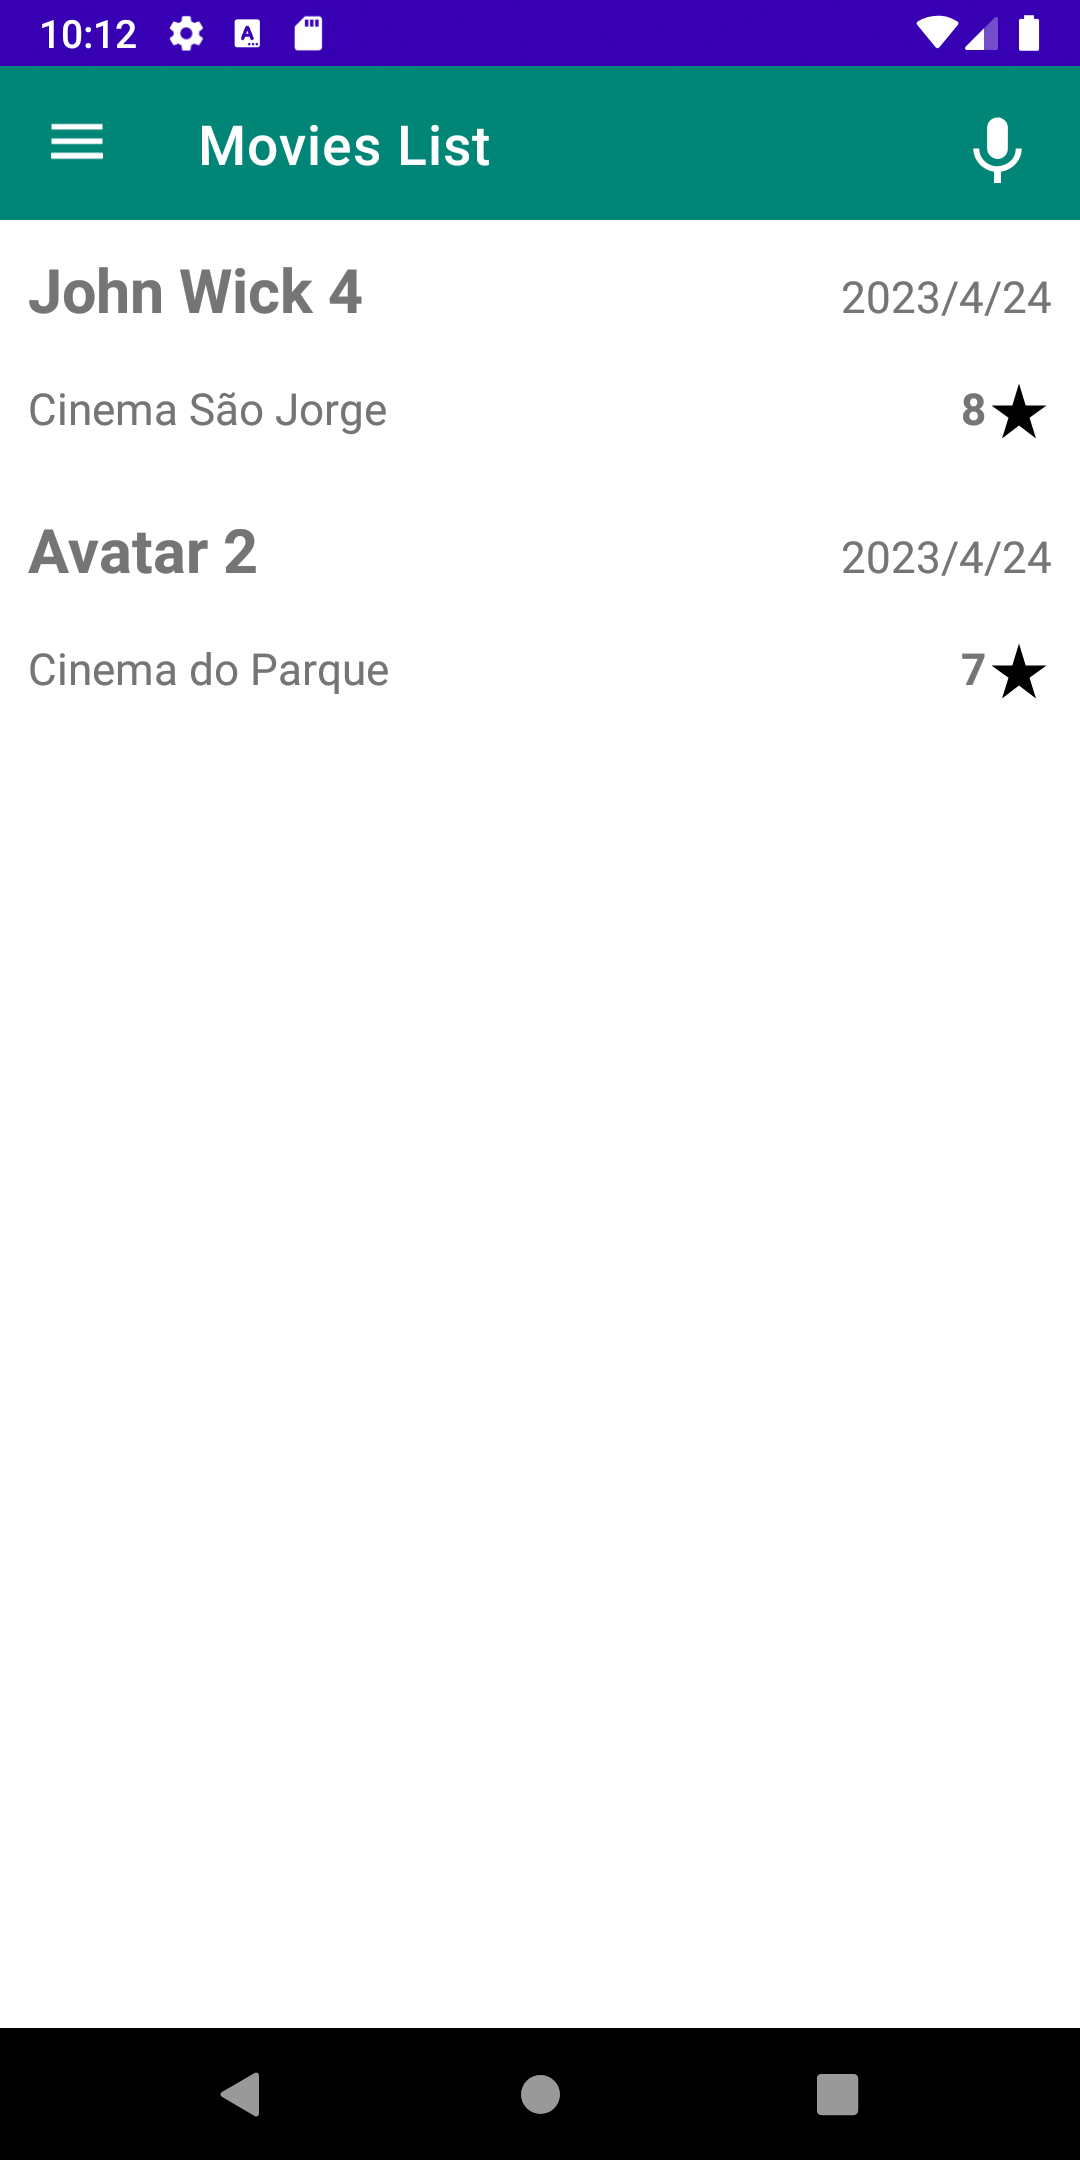
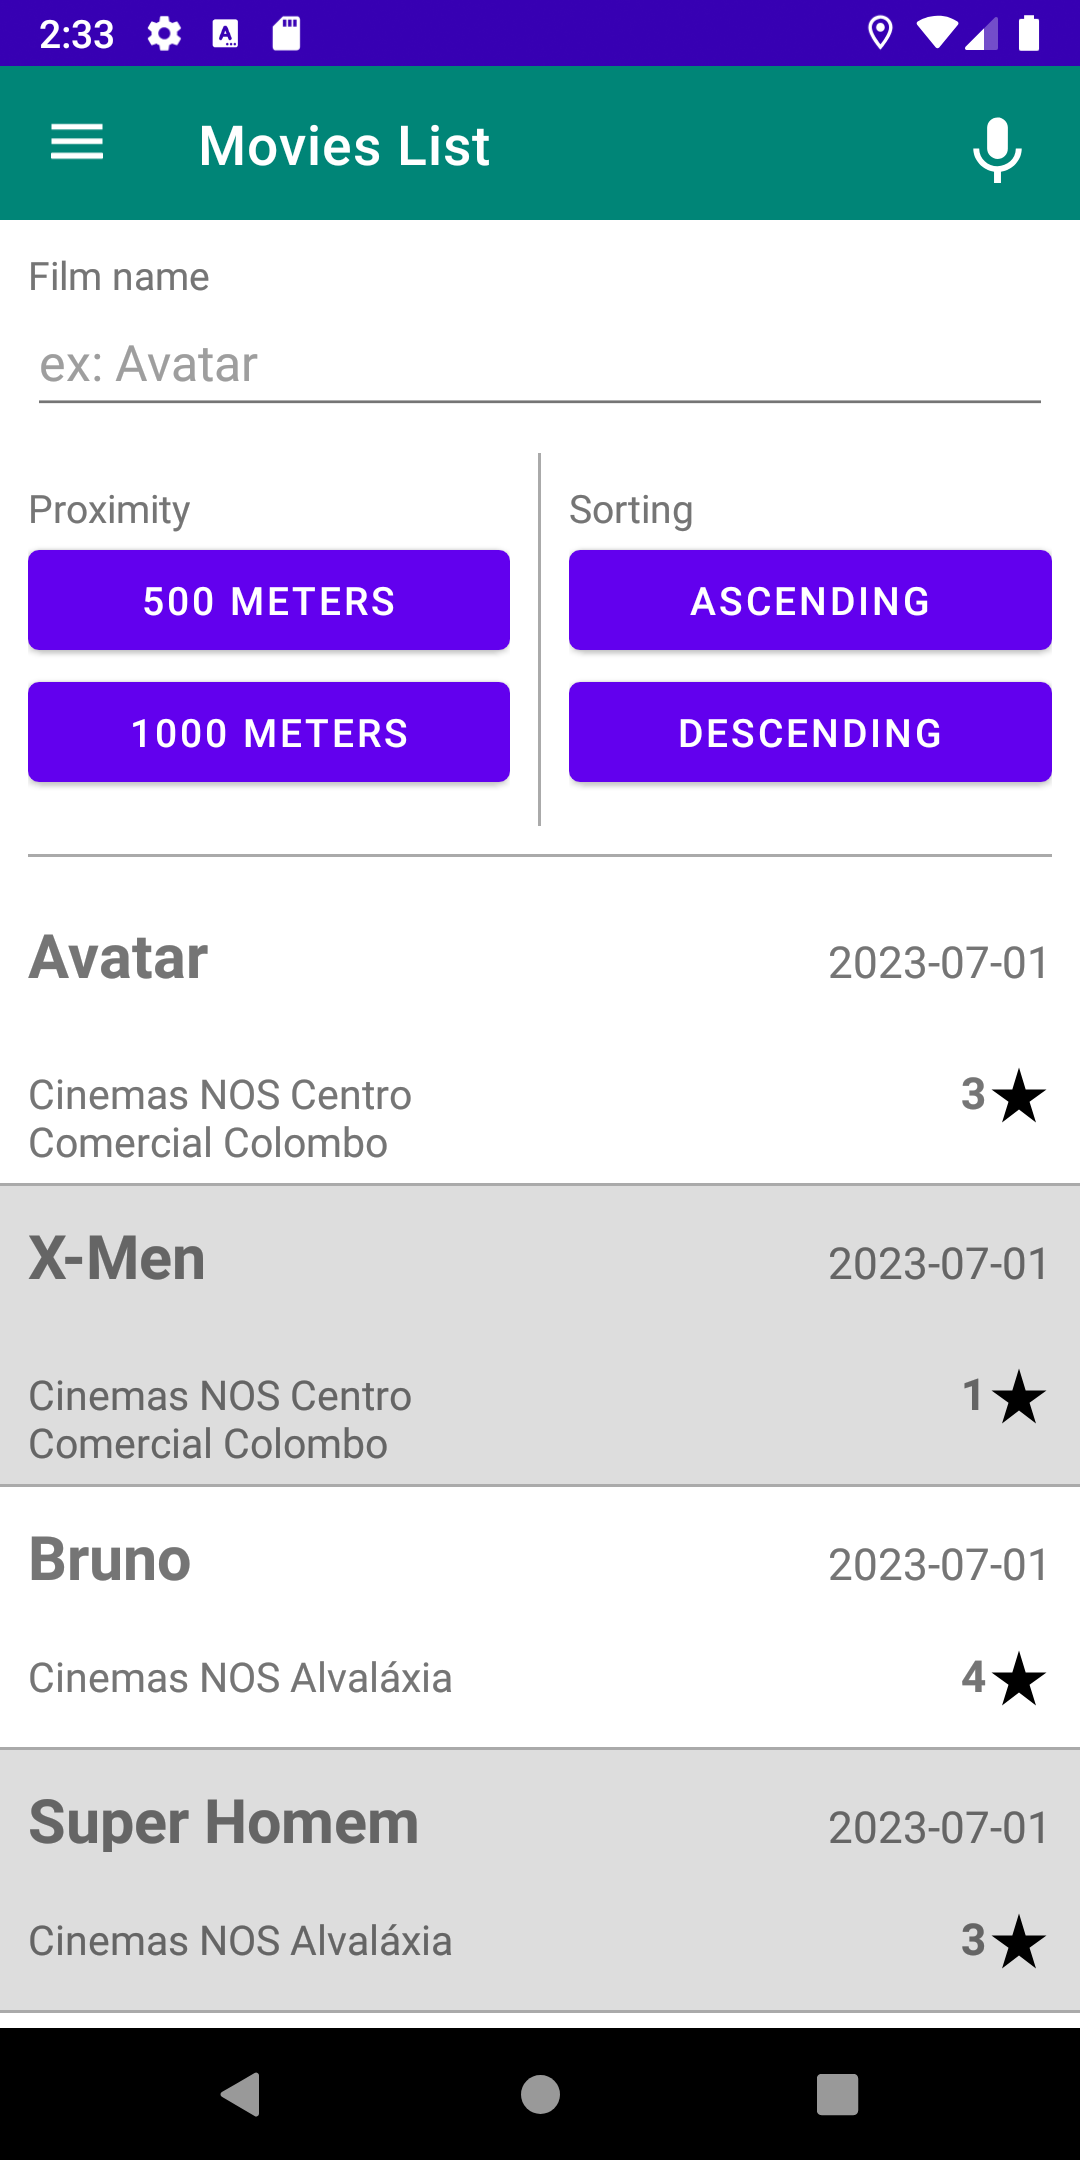
commiy 02/07

diff --git a/README.md b/README.md
@@ -2,19 +2,22 @@
 
 Nome: Bruno Mateus <br />
 Número: a22102554 <br />
-Nome: Diogo Moreira <br />
-Número: a22103941 <br />
+
+
+## Link video:
+  
 
 ## Ecrãs:
 
 ### Dashboard
-<img src="img/dashboard.png" height="50%" width="50%">
+-------------
+<img src="img/dashbord.png" height="50%" width="50%">
 
 ### Registo
 <img src="img/registoFilme1.png" height="50%" width="50%">
 <img src="img/registoFilme2.png" height="50%" width="50%">
+<img src="img/registoFilme2.png" height="50%" width="50%">
 <img src="img/erroCamposObg.png" height="50%" width="50%">
-<img src="img/autoCompleteFilme.png" height="50%" width="50%">
 <img src="img/autoCompleteCinema.png" height="50%" width="50%">
 <img src="img/popupData.png" height="50%" width="50%">
 <img src="img/popupData.png" height="50%" width="50%">
@@ -31,104 +34,112 @@ Número: a22103941 <br />
 <img src="img/mapa.png" height="50%" width="50%">
 
 ### Pesquisa de voz
-<img src="img/voice.png" height="50%" width="50%">
+<img src="img/voice1.png" height="50%" width="50%">
+<img src="img/voice2.png" height="50%" width="50%">
 
-## Filmes hardcoded:
-John Wick 4 <br />
-Avatar 2 <br />
-Shazam <br />
-Homem-Aranha 3 <br />
+## Critérios
 
-| Critério                                           | Funcionalidades                                                                                                                                                                       |
-|----------------------------------------------------|---------------------------------------------------------------------------------------------------------------------------------------------------------------------------------------|
-| Dashboard                                          | Existe um ecrã dashboard que permite viualizar o numero de filmes já vistos e um top 5 dos filmes melhor classificados                                                                |
-| Apresentação dos filmes -Lista                     | Existe um ecrã onde é representado a lista dos Filmes visualizados                                                                                                                    |
-| Apresentação dos filmes - Lista - Rotação          | É possivel rodar o ecrá desse mesmo ecrã de lista, onde acrescenta as observações de cada filme                                                                                       |
-| Apresentação dos filmes - Mapa (imagem)            | Existe um ecrã dedicado ao Mapa, onde aparece uma imagem de um mapa dos cinemas de Lisboas                                                                                            |
-| Detalhe do filme (sem fotografias)                 | É possivel verificar o detalhe de cada filme na lista, ao selecionar o mesmo irá apresentar um ecrã "Detalhe" onde representa toda a informação solicitada em enunciado de cada filme |
-| Detalhe do filme (apenas a parte das fotografias)  | No Ecrã é tambem possivel visualizar as fotografias inseridas no registo                                                                                                              |
-| Pesquisa de filmes por voz                         | Existe um botão com um icon de um microfone na barra superior onde ao selecionar abre uma pop-up com uma contagem de 10segundos conforme solicitado em enunciado                      |
-| Registo de filmes (sem fotografias)                | Existe um ecrã para efectuar o registo de cada filme com todos os dados pedidos em enunciado                                                                                          |
-| Registo de filmes (apenas a parte das fotografias) | Nesse mesmo ecrã é possivel registar tambem as fotografias tiradas através da camera                                                                                                  |
-| Suporte multi-idioma                               | Existe tambem suporte de multi-idioma, para as linguagens: Portugues, Frances e Ingles                                                                                                |
-| Navegabilidade                                     | A navegação entre ecrãs é feita através de drawer                                                                                                                                     |
+### Parte I
+
+| Critério                                           | Funcionalidades                                                                                                                                                                                                                                                           |
+|----------------------------------------------------|---------------------------------------------------------------------------------------------------------------------------------------------------------------------------------------------------------------------------------------------------------------------------|
+| Dashboard                                          | Existe um ecrã dashboard que permite viualizar o numero de filmes já vistos e um top 5 dos filmes melhor classificados                                                                                                                                                    |
+| Apresentação dos filmes -Lista                     | Existe um ecrã onde é representado a lista dos Filmes visualizados                                                                                                                                                                                                        |
+| Apresentação dos filmes - Lista - Rotação          | É possivel rodar o ecrá desse mesmo ecrã de lista, onde acrescenta as observações de cada filme                                                                                                                                                                           |
+| Apresentação dos filmes - Mapa (imagem)            | Existe um ecrã dedicado ao Mapa, onde aparece uma imagem de um mapa dos cinemas de Lisboas                                                                                                                                                                                |
+| Detalhe do filme (sem fotografias)                 | É possivel verificar o detalhe de cada filme na lista, ao selecionar o mesmo irá apresentar um ecrã "Detalhe" onde representa toda a informação solicitada em enunciado de cada filme                                                                                     |
+| Detalhe do filme (apenas a parte das fotografias)  | No Ecrã é tambem possivel visualizar as fotografias inseridas no registo                                                                                                                                                                                                  |
+| Pesquisa de filmes por voz                         | Existe um botão com um icon de um microfone na barra superior onde ao selecionar abre uma pop-up com uma contagem de 10segundos conforme solicitado em enunciado                                                                                                          |
+| Registo de filmes (sem fotografias)                | Existe um ecrã para efectuar o registo de cada filme com todos os dados pedidos em enunciado                                                                                                                                                                              |
+| Registo de filmes (apenas a parte das fotografias) | Nesse mesmo ecrã é possivel registar tambem as fotografias tiradas através da camera                                                                                                                                                                                      |
+| Suporte multi-idioma                               | Existe tambem suporte de multi-idioma, para as linguagens: Portugues, Frances e Ingles                                                                                                                                                                                    |
+| Navegabilidade                                     | A navegação entre ecrãs é feita através de drawer                                                                                                                                                                                                                         |
+
+
+### Parte II + Recurso
+
+| Critério                                             | Funcionalidades                                                                                                                                                                                                                                                           |
+|------------------------------------------------------|---------------------------------------------------------------------------------------------------------------------------------------------------------------------------------------------------------------------------------------------------------------------------|
+| Regista Já                                           | É possivel ir para o ecrã de registo de uma avaliação apenas agitando o smartphone |
+| Registo de filmes                                    | É possivel registar uma avaliação de um filme caso exista acesso à internet |
+| Inserir corretamente na base de dados                | Os registos na base de dados são inseridos corretamente |
+| Validação e obtenção dos dados do filme via API      | Os dados dos filmes são obtidos via API e guardados na base de dados local |
+| Validação e obtenção dos dados do cinema via JSON    | Os dados dos cinemas são obtidos via JSON e guardados na base de dados local |
+| Utilização de geo-localização                        | No fragmento Mapa é utilizada a geolocalização |
+| Inserir fotografias na base de dados                 | As fotografias referentes à avaliação são guardadas na base de dados com id da avaliação |
+| Apresentação dos filmes -Lista                       | Os filmes são apresentados em forma de lista |
+| Apresentação dos filmes - Mapa                       | Os filmes são apresentados no mapa através de markers |
+| Filtros - Apresentação em Lista                      | É possivel filtrar os filmes por pesquisa do nome do filme ou até mesmo pela proximidade de 500 ou 1000 metros, ainda é possivel filtrar os filtros em conjunto com a ordenação |
+| Ordenação - Apresentação em Lista                    | É possivel ordenar os filmes pela ordem crescente ou decrescente e tambem é possivel combinar com os filtros |
+| Detalhe do filme (sem fotografias)                   | O filme é apresentado sem fotografias |
+| Detalhe do filme (apenas a parte das fotografias)    | O filme apresenta fotografias inseridas num recycler view |
+| Pesquisa de filmes por voz - Funcionalidade Avançada | É possível procurar um filme que tenha sido avaliado por voz |
+| Dashboard                                            | O ecrã dashboard que permite viualizar o numero de filmes já vistos e um top 5 dos filmes melhor classificados |
+| Funcionamento Offline - Funcionalidade Avançada      | A aplicação funciona de modo offline apenas para visualização de avaliações já inseridas |
+| Video                                                |  |
 
 ### Autoavaliação = 17
 
 ## Classes de Lógica de Negócio 
 
+#### Classe Avaliacao:
+- Atributos: <br />
+-- id - String <br />
+-- filme - Filme <br />
+-- cinema - Cinema <br />
+-- avaliacao - Int <br />
+-- dataVisualizacao - Long <br />
+-- fotos - List<File>? <br />
+-- observacoes - String <br />
+
 #### Classe Filme:
 - Atributos: <br />
+-- id - String <br />
 -- nome - String <br />
--- cinema - String <br />
--- avaliacao - Int <br />
--- dataVisualizacao - Calendar <br />
--- fotos - List<File> <br />
--- observacoes - String <br />
--- listImgGet - List<File> <br />
-- Métodos: <br />
--- listImgGet() : List<File> <br />
-
-#### Classe Filmes:
-- Atributos: <br />
--- listImg - mutableListOf<File> <br />
--- listImgGet - List <br />
--- history - mutableListOf<Filme> <br />
-- Métodos: <br />
--- listImgGet() : List<File> <br />
--- imagemSet(imgFile : File) <br />
--- imagensListClear() <br />
--- history() : List<Filme> <br />
--- historySet (nome:String, cinema:String, avaliacao:Int, data: Calendar, imgList: List<File>, obs:String):Int <br />
--- top5Filmes() : List<Filme> <br />
--- countFilmes() : Int <br />
+-- generoImbd - String <br />
+-- dataImbd - Long <br />
+-- avaliacaoImbd - String <br />
+-- imgImbd - String <br />
+-- sinopse - String? <br />
 
 #### Classe Cinema:
 - Atributos: <br />
--- cinemaName - String <br />
-
-#### Classe Cinemas:
-- Atributos: <br />
--- cinema1 - Cinema <br />
--- cinema2 - Cinema <br />
--- cinema3 - Cinema <br />
--- cinema4 - Cinema <br />
--- cinema5 - Cinema <br />
--- cinema6 - Cinema <br />
--- cinema7 - Cinema <br />
--- cinema8 - Cinema <br />
--- cinema9 - Cinema <br />
--- cinema10 - Cinema <br />
--- cinema11 - Cinema <br />
--- listCinemas - mutableListOf<Cinema> <br />
--- getListCinemas - List<Cinema> <br />
+-- cinema_id - Int <br />
+-- cinema_name - String <br />
+-- latitude - Double <br />
+-- longitud - Double <br />
+-- morada - String <br />
+-- localidade - String <br />
+  
+  #### Classe abstrata Operações:
 - Métodos: <br />
--- getListCinemas : List<Cinema> <br />
--- nomesCinemasGet : List<String> <br />
-
-#### Classe FilmeIMDB:
-- Atributos: <br />
--- nomeImdb - String <br />
--- generoImdb - String <br />
--- dataImdb - String <br />
--- avaliacaoImdb - String <br />
--- imgImdb - String <br />
--- sinopse - String <br />
-
-#### Classe FilmesIMDB:
-- Atributos: <br />
--- filme1 - FilmeIMDB <br />
--- filme2 - FilmeIMDB <br />
--- filme3 - FilmeIMDB <br />
--- filme4 - FilmeIMDB <br />
--- listFilmesImdb - mutableListOf<FilmeIMDB> <br />
--- getListFilmesImdb - List<FilmeIMDB> <br />
-- Métodos: <br />
--- getListFilmesImdb : List<FilmeIMDB> <br />
--- nomesFilmesGet : List<String> <br />
+- Filmes: <br />
+-- getAllFilmes(onFinished: (Result<List<Avaliacao>>) -> Unit) <br />
+-- inserirFilme(filme: Filme, avaliacao: Avaliacao, onFinished: () -> Unit) <br />
+-- getFilmeIMDB(nome: String, onFinished: (Result<Filme>) -> Unit) <br />
+-- getFilme(id: String, onFinished: (Result<Filme>) -> Unit) <br />
+-- verificarFilme(nome: String, onFinished: (Int) -> Unit) <br />
+- Avaliações: <br />
+-- getAllAvaliacoes(onFinished: (Result<List<Avaliacao>>) -> Unit) <br />
+-- getAvaliacao(id : String, onFinished: (Result<Avaliacao>) -> Unit) <br />
+-- inserirAvaliacao(filme: Filme, avaliacao: Avaliacao, onFinished: (Result<Filme>) -> Unit) <br />
+-- getAvaliacaoIdFromFilmeName(nome: String, onFinished: (Result<String>) -> Unit) <br />
+-- inserirFotosAvaliacao(fotos: List<File>, idAvaliacao: String, onFinished: () -> Unit) <br />
+-- getAllFotosFromAvaliacao(id: String, onFinished: (Result<List<File>>) -> Unit) <br />
+-- getAvaliacaoCheckCinema(idCinema: Int, onFinished: (Result<Int>) -> Unit) <br />
+-- countAvaliacoes(onFinished: (Result<Int>) -> Unit) <br />
+-- top5Avaliacoes(onFinished: (Result<List<Avaliacao>>) -> Unit) <br />
+- Cinemas: <br />
+-- getCinemasJSON(onFinished: (Result<List<Cinema>>) -> Unit) <br />
+-- inserirCinemas(cinemas : List<Cinema>, onFinished: () -> Unit) <br />
+-- getCinemaByNome(cinema : String, onFinished: (Result<Cinema>) -> Unit) <br />
+-- getCinemaById(idCinema : Int, onFinished: (Result<Cinema>) -> Unit) <br />
+-- verificarCinema(nome : String, onFinished: (Int) -> Unit) <br />
+-- getAllCinemasNomes(onFinished: (Result<List<String>>) -> Unit) <br />
+-- clearAllCinemas(onFinished: () -> Unit) <br />
+  
 
 ## Idioma gerado pelo Chat GPT assim como os screenshots das prompts:
-
 
 <img src="img/inglesFrances1.png" height="50%" width="50%">
 <img src="img/inglesFrances2.png" height="50%" width="50%">
